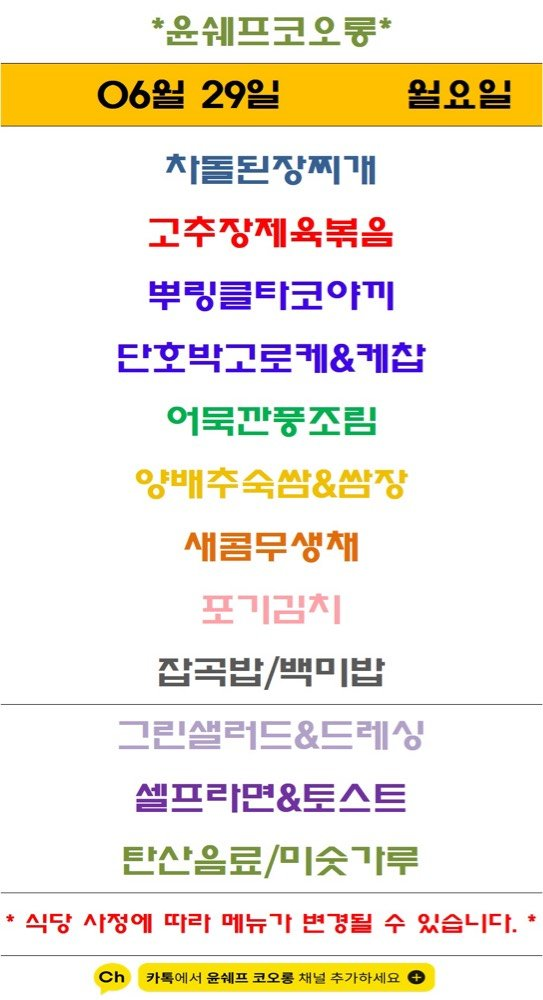
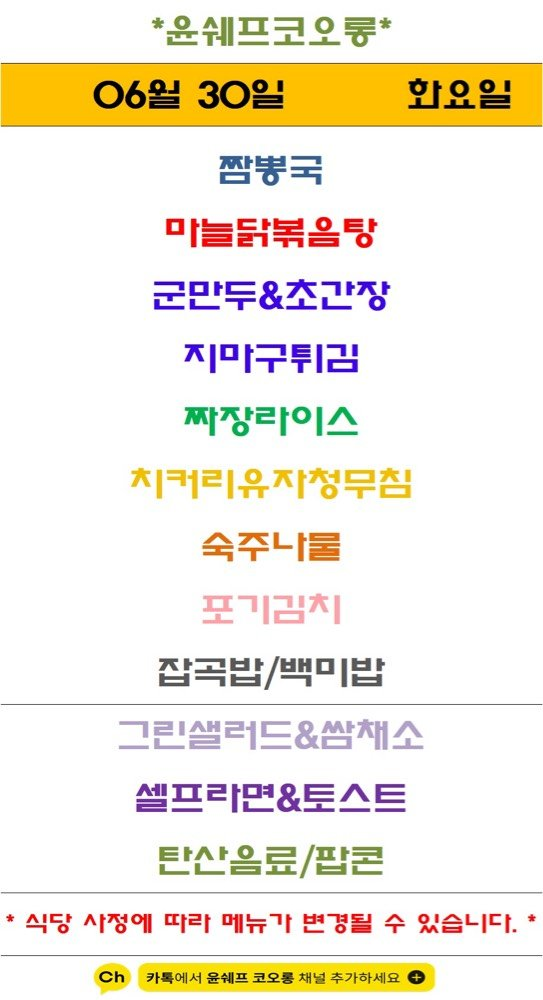
Update menu board assets

diff --git a/guro-menu/index.html b/guro-menu/index.html
@@ -32,7 +32,7 @@
   </header>
   <section class="meta">
     <div><small>기준 날짜</small><strong>2026년 6월 30일 화요일</strong></div>
-    <div><small>최종 갱신</small><strong>2026-06-30 09:13:29</strong></div>
+    <div><small>최종 갱신</small><strong>2026-06-30 09:18:15</strong></div>
     <div><small>등록 식당</small><strong>5개</strong></div>
   </section>
   <div class="notice">공개 카카오 채널의 메뉴 이미지를 자동 수집하고 OCR로 정리합니다. 텍스트에 오타가 있을 수 있으니 식단 이미지를 함께 확인해 주세요.</div>
@@ -103,8 +103,8 @@
           <a class="channel" href="https://pf.kakao.com/_Xxhxkhs" target="_blank" rel="noopener">원본 채널</a>
         </div>
         <img class="menu-image" src="./images/yoon-chef-kolon.png" alt="윤쉐프 코오롱 식단 이미지" loading="lazy">
-        <p class="message">최신 공개 식단 이미지의 텍스트입니다. 날짜는 원본 이미지를 확인해 주세요.</p>
-        <ul><li>자돌된장찌개</li><li>고추장제육복음</li><li>뿌링클타코야끼</li><li>단호박고로케&amp;케잡</li><li>어묵깐중조림</li><li>새콤무생재</li><li>잡곡밥/백미밥</li><li>그린샐러드&amp;드레싱</li><li>셀프라면&amp;토스트</li><li>탄산음료/미숫가루</li></ul>
+        
+        <ul><li>마늘닭볶음탕</li><li>군만두&amp;조관장</li><li>지마구튀긴</li><li>짜장라이스</li><li>숙주나물</li><li>잡곡밥/백미밥</li><li>그린샐러드&amp;쌈채소</li><li>셀프라면&amp;토스트</li><li>탄산옴료/팝콘</li></ul>
       </article>
   </section>
   <section class="seo" aria-label="검색 정보">한신IT타워 구내식당 자연푸드 구내식당 더이츠푸드 벽산더이룸 윤쉐프 코오롱 한신IT타워 벽산디지털밸리7차 대륭포스트타워1차 벽산디지털밸리1차 코오롱싸이언스밸리1차 서울 구로구 디지털로 272 한신IT타워 지하1층 서울 구로구 디지털로33길 50 벽산디지털밸리7차 지하1층 서울 구로구 디지털로 288 대륭포스트타워1차 지하1층 서울 구로구 디지털로27길 24 벽산디지털밸리1차 지하1층 서울 구로구 디지털로34길 43 코오롱싸이언스밸리1차 지하1층</section>

diff --git a/menu-today/index.html b/menu-today/index.html
@@ -209,7 +209,7 @@
 
     <section class="meta-bar">
       <div class="meta-card"><div class="meta-label">기준 날짜</div><div class="meta-value">2026년 6월 30일 화요일</div></div>
-      <div class="meta-card"><div class="meta-label">최종 가져온 시간</div><div class="meta-value">2026-06-30 09:13:14</div></div>
+      <div class="meta-card"><div class="meta-label">최종 가져온 시간</div><div class="meta-value">2026-06-30 09:18:01</div></div>
       <div class="meta-card"><div class="meta-label">확인 완료</div><div class="meta-value">9개 식당</div></div>
       <div class="meta-card"><div class="meta-label">준비중</div><div class="meta-value">3개 채널</div></div>
     </section>
@@ -295,7 +295,7 @@
             <div class="sub">에이스테크노타워10차</div>
           </div>
         </div>
-        <div class="menu-inline-image"><img src="./images/thefoodsketch.png" alt="더푸드스케치 식단 이미지"></div><ul><li>얼큰계란탕</li><li>차돌숙주볶음</li><li>길비실까스</li><li>소세지전</li><li>이틸리안토마토파스타</li><li>= 꾼제오리냉채</li><li>감자조림</li><li>Ww 아삭이무침</li><li>가든샐러드 / 드레싱</li><li>배추겉절이 / 음료</li></ul>
+        <div class="menu-inline-image"><img src="./images/thefoodsketch.png" alt="더푸드스케치 식단 이미지"></div><ul><li>얼큰계란탕</li><li>차돌숙주볶음</li><li>길비실까스</li><li>소세지전</li><li>이틸리안토마토파스타</li><li>= 꾼제오리냉채</li><li>감자조림</li><li>Ww 아삭이무침</li><li>가든샐러드 &amp; 드레싱</li><li>배추겉절이 / 음료</li></ul>
       </article>
 
       <article class="restaurant-card">
